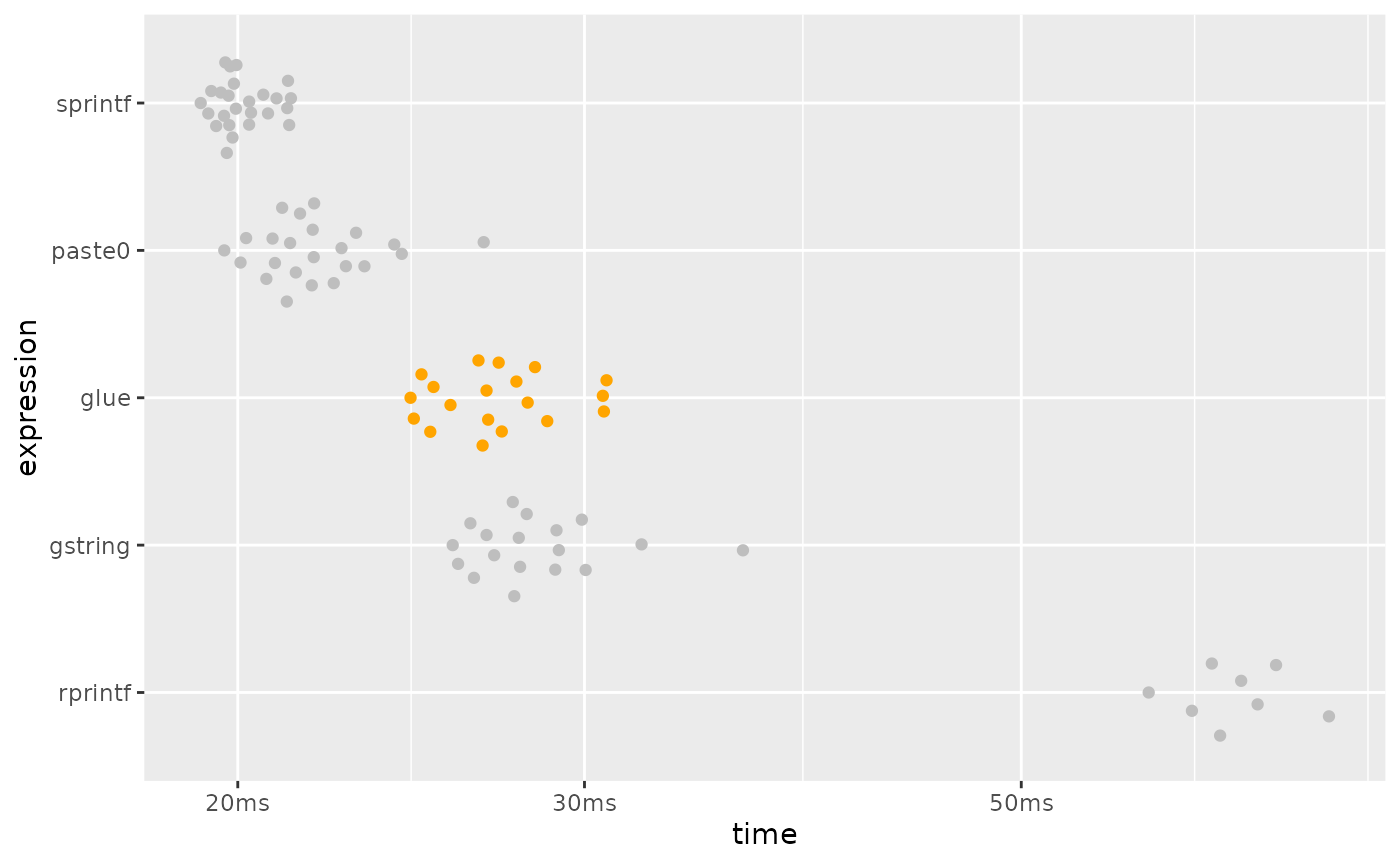
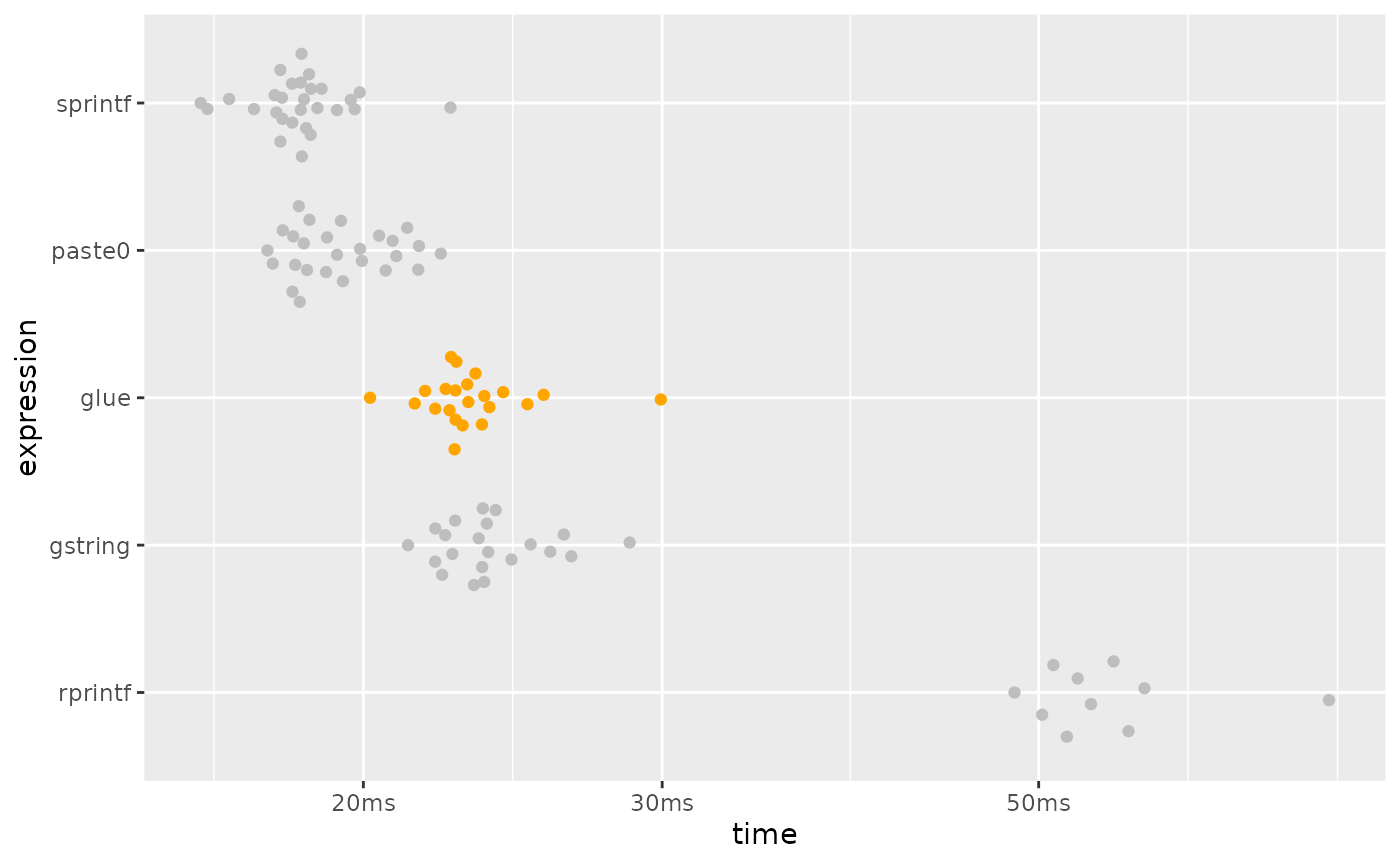
Deploying to gh-pages from @ tidyverse/glue@e2b74ff17704261b5a7da25b4ebd2dec94740764 🚀

diff --git a/dev/articles/speed.html b/dev/articles/speed.html
@@ -166,11 +166,11 @@ this benchmark, but is now formally marked as “superseded”, in favor of
 <span><span class="co">#&gt; <span style="color: #949494;"># A tibble: 5 × 6</span></span></span>
 <span><span class="co">#&gt;   expression      min   median `itr/sec` mem_alloc `gc/sec`</span></span>
 <span><span class="co">#&gt;   <span style="color: #949494; font-style: italic;">&lt;bch:expr&gt;</span> <span style="color: #949494; font-style: italic;">&lt;bch:tm&gt;</span> <span style="color: #949494; font-style: italic;">&lt;bch:tm&gt;</span>     <span style="color: #949494; font-style: italic;">&lt;dbl&gt;</span> <span style="color: #949494; font-style: italic;">&lt;bch:byt&gt;</span>    <span style="color: #949494; font-style: italic;">&lt;dbl&gt;</span></span></span>
-<span><span class="co">#&gt; <span style="color: #BCBCBC;">1</span> sprintf     999.9ns    1.3µs   <span style="text-decoration: underline;">593</span>517.        0B     0   </span></span>
-<span><span class="co">#&gt; <span style="color: #BCBCBC;">2</span> paste0        2.1µs    2.6µs   <span style="text-decoration: underline;">322</span>287.        0B    32.2 </span></span>
-<span><span class="co">#&gt; <span style="color: #BCBCBC;">3</span> glue        169.2µs  196.2µs     <span style="text-decoration: underline;">4</span>611.  129.17KB    13.7 </span></span>
-<span><span class="co">#&gt; <span style="color: #BCBCBC;">4</span> gstring     458.9µs  546.9µs     <span style="text-decoration: underline;">1</span>689.    2.45MB     8.35</span></span>
-<span><span class="co">#&gt; <span style="color: #BCBCBC;">5</span> rprintf     491.5µs  601.7µs     <span style="text-decoration: underline;">1</span>557.   78.16KB     4.08</span></span>
+<span><span class="co">#&gt; <span style="color: #BCBCBC;">1</span> sprintf       800ns    1.2µs   <span style="text-decoration: underline;">603</span>724.        0B    60.4 </span></span>
+<span><span class="co">#&gt; <span style="color: #BCBCBC;">2</span> paste0          2µs    2.6µs   <span style="text-decoration: underline;">321</span>445.        0B     0   </span></span>
+<span><span class="co">#&gt; <span style="color: #BCBCBC;">3</span> glue          157µs  196.2µs     <span style="text-decoration: underline;">4</span>691.  130.23KB    16.1 </span></span>
+<span><span class="co">#&gt; <span style="color: #BCBCBC;">4</span> gstring       393µs  493.1µs     <span style="text-decoration: underline;">1</span>925.    2.45MB     8.37</span></span>
+<span><span class="co">#&gt; <span style="color: #BCBCBC;">5</span> rprintf       409µs  529.2µs     <span style="text-decoration: underline;">1</span>772.   78.16KB     4.08</span></span>
 <span></span>
 <span><span class="co"># plotting function defined in a hidden chunk</span></span>
 <span><span class="fu">plot_comparison</span><span class="op">(</span><span class="va">simple</span><span class="op">)</span></span></code></pre></div>
@@ -213,11 +213,11 @@ performance is much closer to that of <code><a href="https://rdrr.io/r/base/past
 <span><span class="co">#&gt; <span style="color: #949494;"># A tibble: 5 × 6</span></span></span>
 <span><span class="co">#&gt;   expression      min   median `itr/sec` mem_alloc `gc/sec`</span></span>
 <span><span class="co">#&gt;   <span style="color: #949494; font-style: italic;">&lt;bch:expr&gt;</span> <span style="color: #949494; font-style: italic;">&lt;bch:tm&gt;</span> <span style="color: #949494; font-style: italic;">&lt;bch:tm&gt;</span>     <span style="color: #949494; font-style: italic;">&lt;dbl&gt;</span> <span style="color: #949494; font-style: italic;">&lt;bch:byt&gt;</span>    <span style="color: #949494; font-style: italic;">&lt;dbl&gt;</span></span></span>
-<span><span class="co">#&gt; <span style="color: #BCBCBC;">1</span> sprintf      19.2ms   19.9ms      49.7   781.3KB     0   </span></span>
-<span><span class="co">#&gt; <span style="color: #BCBCBC;">2</span> paste0       19.7ms   21.7ms      46.0   781.3KB     2.09</span></span>
-<span><span class="co">#&gt; <span style="color: #BCBCBC;">3</span> glue         24.5ms   26.8ms      37.1    2.29MB     2.06</span></span>
-<span><span class="co">#&gt; <span style="color: #BCBCBC;">4</span> gstring      25.7ms   27.8ms      35.7    1.53MB     2.10</span></span>
-<span><span class="co">#&gt; <span style="color: #BCBCBC;">5</span> rprintf        58ms   63.1ms      15.8    3.05MB     2.26</span></span>
+<span><span class="co">#&gt; <span style="color: #BCBCBC;">1</span> sprintf        16ms   18.4ms      54.3   781.3KB     2.01</span></span>
+<span><span class="co">#&gt; <span style="color: #BCBCBC;">2</span> paste0       17.6ms   19.2ms      51.4   781.3KB     0   </span></span>
+<span><span class="co">#&gt; <span style="color: #BCBCBC;">3</span> glue         20.2ms   22.7ms      43.8    2.29MB     4.38</span></span>
+<span><span class="co">#&gt; <span style="color: #BCBCBC;">4</span> gstring      21.2ms   23.5ms      42.4    1.53MB     2.12</span></span>
+<span><span class="co">#&gt; <span style="color: #BCBCBC;">5</span> rprintf      48.4ms   52.3ms      18.9    3.05MB     4.72</span></span>
 <span></span>
 <span><span class="co"># plotting function defined in a hidden chunk</span></span>
 <span><span class="fu">plot_comparison</span><span class="op">(</span><span class="va">vectorized</span><span class="op">)</span></span></code></pre></div>
